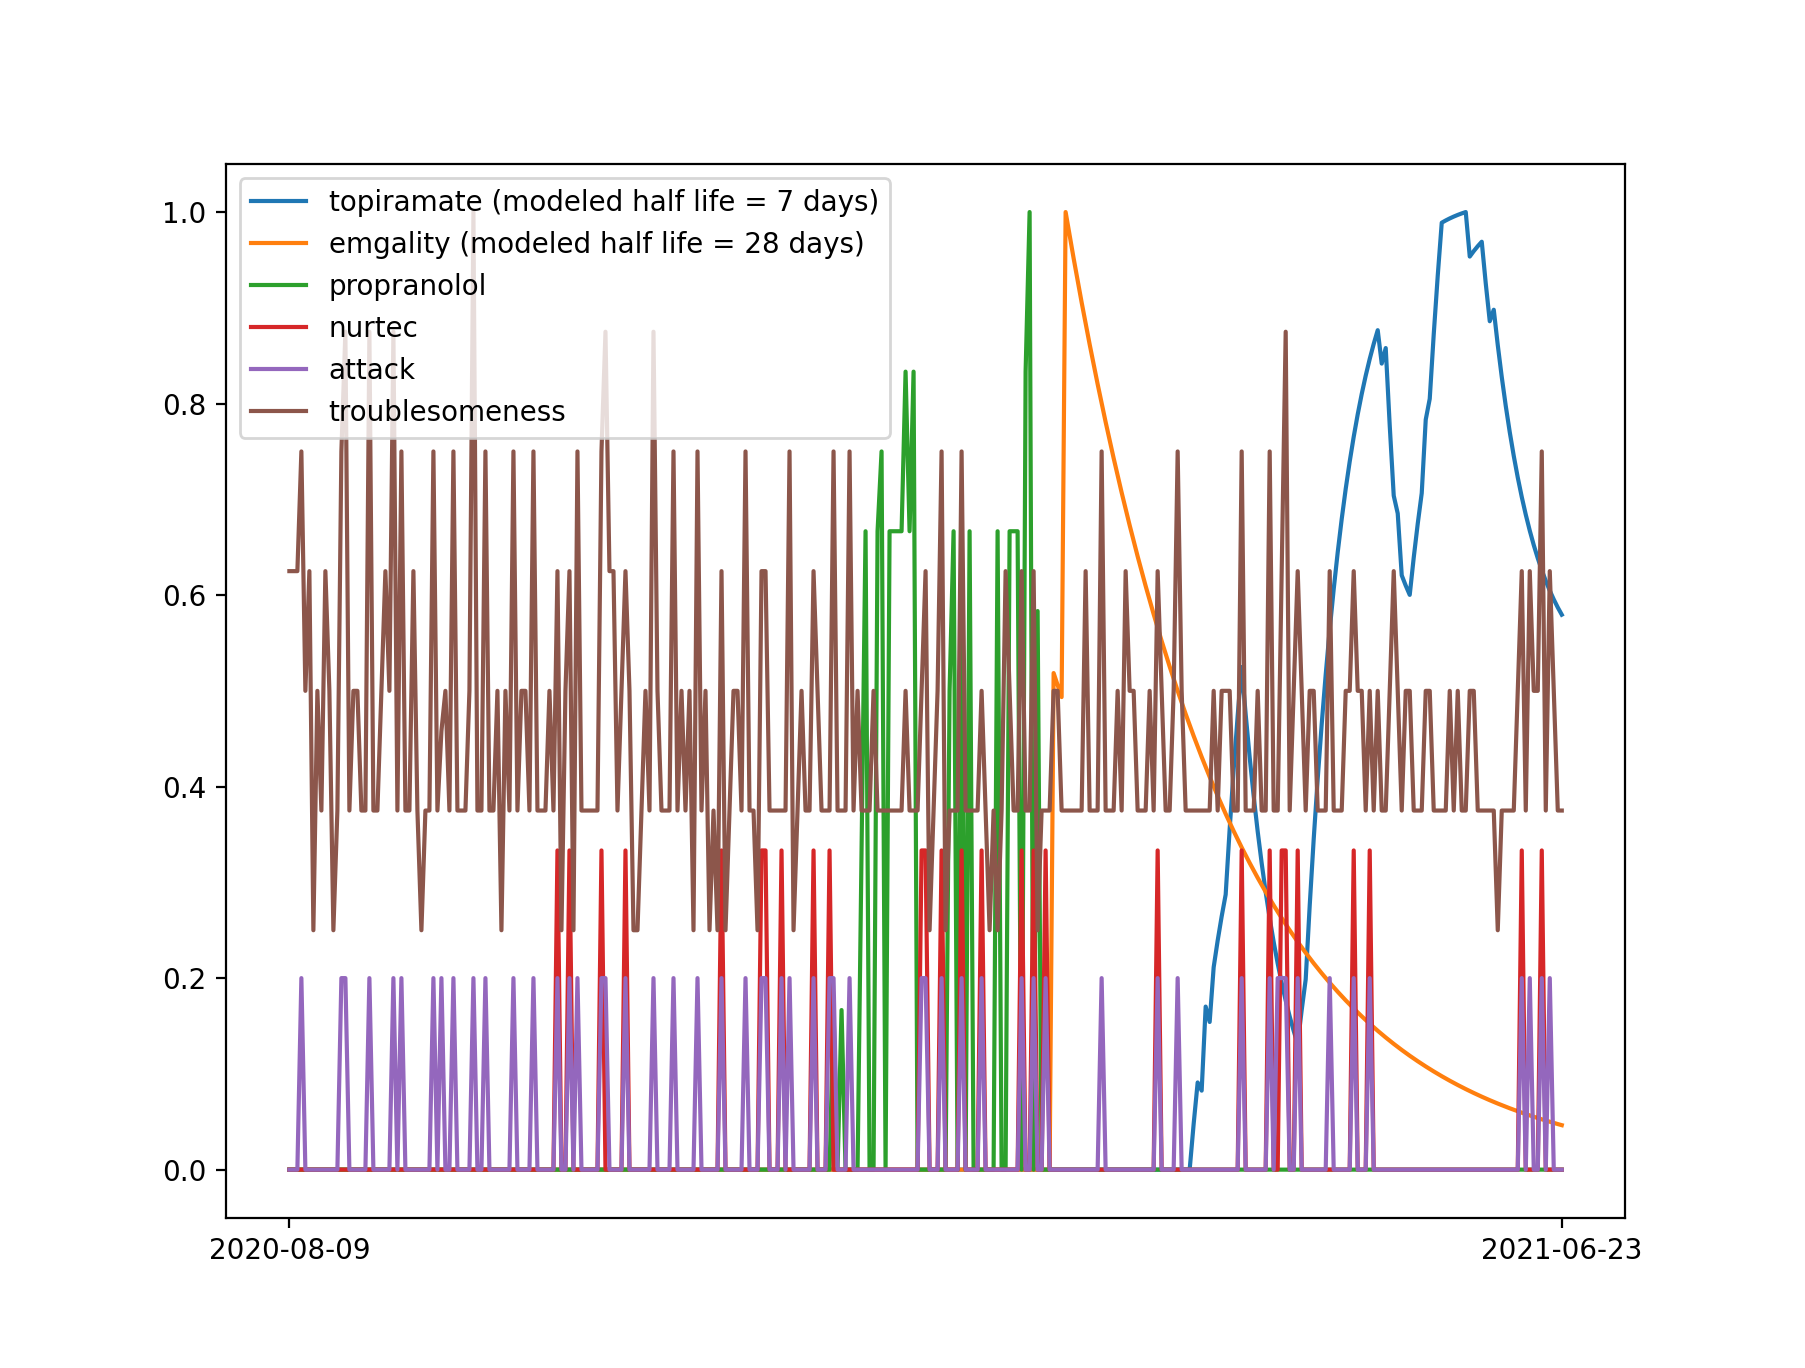
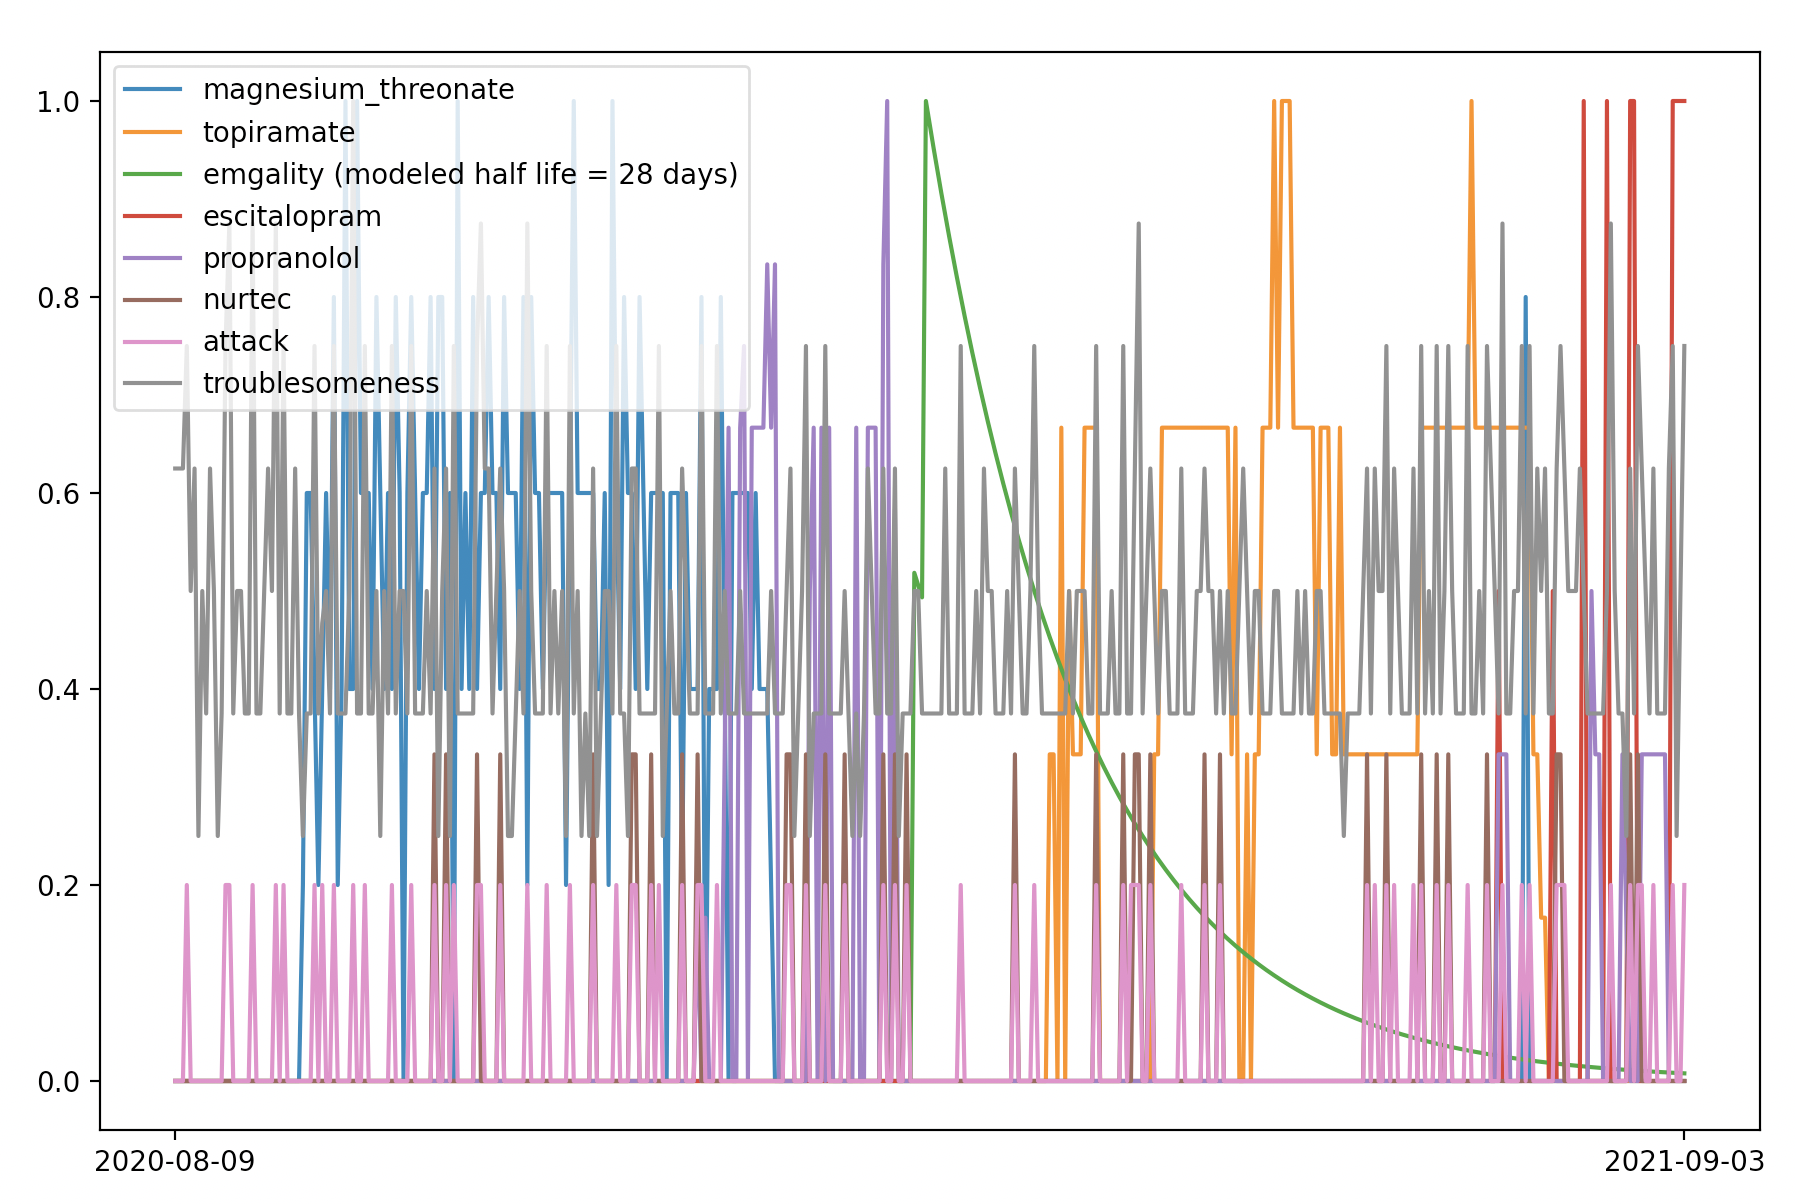
Create a page about my health condition

diff --git a/myHealthCondition.html b/myHealthCondition.html
@@ -1,0 +1,67 @@
+<!DOCTYPE html>
+<html lang="en">
+  <head>
+    <meta charset="utf-8">
+    <title>Tanner Winkelman</title>
+    <meta name="description" content="Page about Tanner's health condition on Tanner Winkelman's GitHub website.">
+    <meta name="keywords" content="Tanner,Winkelman,GitHub,site,health,condition,migraine,head,headache,neurological">
+    <meta name="author" content="Tanner Winkelman">
+    <meta name="viewport" content="width=device-width, initial-scale=1">
+    <link rel="stylesheet" href="https://maxcdn.bootstrapcdn.com/bootstrap/3.3.7/css/bootstrap.min.css">
+    <script src="https://ajax.googleapis.com/ajax/libs/jquery/3.3.1/jquery.min.js"></script>
+    <script src="https://maxcdn.bootstrapcdn.com/bootstrap/3.3.7/js/bootstrap.min.js"></script>
+  </head>
+  <body>
+    <div class="container">
+      <h1>My Health Condition</h1>
+      <p>I have a health problem characterized by pain in my forehead every hour of every day.  I also get migraine attacks a few times a week.  The migraine attacks started gradually around 2018, and the persistent head pain started more recently.  Here are some treatments I have tried: magnesium, sumatriptan, amitriptyline, riboflavin, coenzyme Q10, Nurtec (rimegepant), propranolol, Emgality (galcanezumab), topiramate.  I am currently (2021-09-06) writing down my health experiences in a Google sheet, including almost everything I eat, multiple numbers describing my condition, lots of text, and all medication I take.  I have written python programs that analyze this data.</p>
+      <p>Here are some findings:</p>
+      <p>
+        <h2>Attack Frequency by Day of Week</h2>
+        I have been much more likely to have migraine attacks on Sundays than other days of the week.  The strength of this has varied from semester to semester.  Here I present my findings by 4-month periods:
+        <ul>
+        <li>2019-09-01 to 2019-12-31:  p=0.002;  I was more likely to have attacks on Sundays during this period.</li>
+        <li>2020-01-01 to 2020-04-30:  p=0.5;  I was not more likely to have attacks on Sundays during this period.</li>
+        <li>2020-05-01 to 2020-08-31:  p=0.5;  I was not more likely to have attacks on Sundays during this period.</li>
+        <li>2020-09-01 to 2020-12-31:  p=0.02;  I was more likely to have attacks on Sundays during this period, but not as much as during some of the other periods.</li>
+        <li>2021-01-01 to 2021-04-30:  p=0.005;  I was more likely to have attacks on Sundays during this period.</li>
+        <li>2021-05-01 to 2021-08-31:  p=0.0001;  I was more likely to have attacks on Sundays during this period.</li>
+        </ul>
+        Here is a graph of the day-of-week trends:
+        <br />
+        <img src="hadattackBy2MonthIntervals.png" height="500px" style="border: 2px solid rgb(127,127,127)" title="day of week attack frequency graph" alt="day of week attack frequency graph" />
+        <br />
+        I do not know what causes these trends.
+      </p>
+      <p>
+        <h2>Propranolol</h2>
+        Propranolol is one of the many medications I have been prescribed.  As a nonselective beta blocker, propranolol's primary action is reducing heart rate <a href="https://www.drugs.com/monograph/propranolol.html">[1]</a><a href="https://www.youtube.com/watch?v=HIwCEydWgr8">[2]</a>.  To measure my heart rate, I have been using a mobile app called <a href="https://appadvice.com/app/stresscam-check-your-stress-pulse-and-bio-age/1181118630">StressCam</a>.  This app is old, so its website, stress-cam.com, has been taken down.  It only works on my older iPhone and not my newer one.
+        <br />
+        The following image shows the effect of propranolol.  I made hour the x-axis to rule out time-of-day as a cause of differing heart rate.
+        <img src="heartRateAndPropranolol.png" height="500px" style="border: 2px solid rgb(127,127,127)" title="heart rate graph" alt="heart rate graph" />
+      </p>
+      <p>
+        <h2>Foods</h2>
+        I have also found that what I eat has little effect on my health other than making me vomit sometimes.  Some foods have statistically significant correlations:
+        <ul>
+          <li>I tend to not eat apples on Saturdays (p=0.003).  Since I tend to have attacks on Sundays, this caused a correlation between apples and attacks that led me to investigate apples as a dietary treatment for my condition.  But when I did day-of-week analysis, I found that this was caused by a day-of-week trend.</li>
+          <li>The day before I eat potatoes, I tend to have less head pain. (p=0.005).  Potatoes do not have any day-of-week correlation.</li>
+        </ul>
+        If nutrition made a difference, I would expect many correlations that I do not see.
+      </p>
+      <p>
+        <h2>Amitriptyline</h2>
+        This is the only medication that I know caused side effects.  To anyone taking this medication here is my warning: the withdrawal was 100 times as severe as starting the medication.  It is far more difficult to stop this medication than start it.
+      </p>
+      <p>
+        <h2>Conclusion</h2>
+        I have a history of believing a treatment works for my migraine headaches but deciding it does not work months later.  I followed this pattern with magnesium, sumatriptan, Nurtec, propranolol, and topiramate.  Currently, I do not know that any treatments have helped my condition.  Now that I have followed this pattern multiple times, I am very skeptical when someone says a treatment helped their chronic condition.
+        <br />
+        Here is another graph:
+        <br />
+        <img src="headPainGraph.png" height="500px" style="border: 2px solid rgb(127,127,127)" title="head pain graph" alt="head pain graph" />
+      </p>
+      <a href="/">Click here to go to the index page of my website</a>
+    </div>
+  </body>
+</html>

diff --git a/aboutMe.html b/aboutMe.html
@@ -14,19 +14,14 @@
   <body>
     <div class="container">
       <h3 style="margin-bottom: 20px;">Tanner Winkelman</h3>
-      <p>In May 2021 I graduated from Missouri University of Science and Technology, the university in Rolla, Missouri.  I now have a Bachelor's degree in Computer Science.  One of the purposes of this page is to publicly provide evidence of my graduation.  My GPA was 3.977/4.0.  When I was at the university, I performed very well on tests, but I could not handle heavy workloads.  In my last semester I took the <a href="https://testcenter.mst.edu/testingprograms/majorfieldtest/">Major Field Test</a>, which is required for Computer Science seniors.  I was able to see my results afterward, and here is what I saw:</p>
+      <p>In May 2021 I graduated from Missouri University of Science and Technology, the university in Rolla, Missouri.  I now have a bachelor's degree in Computer Science.  One of the purposes of this page is to publicly provide evidence of my graduation.  My GPA was 3.977/4.0.  When I was at the university, I performed very well on tests, but I could not handle heavy workloads.  In my last semester I took the <a href="https://testcenter.mst.edu/testingprograms/majorfieldtest/">Major Field Test</a>, which is required for Computer Science seniors.  I was able to see my results afterward, and here is what I saw:</p>
       <img src="mft_result_image_2021-02-24_4.05.45PM.png" height="500px" style="border: 2px solid rgb(127,127,127)" title="major field test results" alt="major field test results" />
       <p>99th percentile is the interesting information there.</p>
       <p>On June 19, 2021, my diploma arrived in the mail along with official transcripts.  Here is my diploma:</p>
       <img src="diploma.jpeg" height="500px" style="border: 2px solid rgb(127,127,127)" title="diploma" alt="diploma" />
       <br />
       <br />
-      <p>Immediately after graduating, I started a job.  I do not want to publicly post the details of the job at this time (June 2021).</p>
-      <p>I have a health problem characterized by pain in my forehead every hour of every day.  Here are some treatments I have tried: sumatriptan, amitriptyline, Nurtec (rimegepant), propranolol, Emgality (galcanezumab), topiramate.  I am currently (2021-06-20) writing down my health experiences in a Google sheet, including almost everything I eat, multiple numbers describing my condition, lots of text, and all medication I take.  This has helped me show effects of some medications.  I have also found that what I eat has little effect on my health other than making me vomit sometimes.  I started having migraine headaches a few years ago and they are probably related to the persistent head pain.  Multiple of the treatments I have listed have been very effective for treating the migraine headaches, so the migraine headaches are virtually cured.  Nurtec has been the most effective.  But no treatment has affected the persistent head pain at all.  The migraine headaches started gradually around 2018, and the persistent head pain started more recently.</p>
-      <p>Here is a graph I made from some of the data I have collected:</p>
-      <img src="headPainGraph.png" height="500px" style="border: 2px solid rgb(127,127,127)" title="head pain graph" alt="head pain graph" />
-      <br />
-      <br />
+      <p>Immediately after graduating, I started a job as a software developer.  I currently do not want to publicly post the details of the job (September 2021).</p>
       <a href="/">Click here to go to the index page of my website</a>
     </div>
   </body>

diff --git a/index.html b/index.html
@@ -15,7 +15,8 @@
   <body>
     <div class="container">
       <h3 style="margin-bottom: 20px;">Tanner Winkelman</h3>
-      <div style="margin: 10px;"><a href="aboutMe.html">About Me</a></div>
+      <div style="margin: 10px;"><a href="aboutMe.html">Professional about-me page</a></div>
+      <div style="margin: 10px;"><a href="myHealthCondition.html">About my health condition</a></div>
       <div style="margin: 10px;"><a href="astro-tools/">Some tools I built for analyzing astronomical coincidences</a></div>
       <div style="margin: 10px;"><a href='algebratool/'>My amazing tool for doing algebra</a></div>
       <div style="margin: 10px;"><a href='mstMathPlacementExamPrep/'>A collection of practice exams for the Missouri S&T Math Placement Test</a></div>
